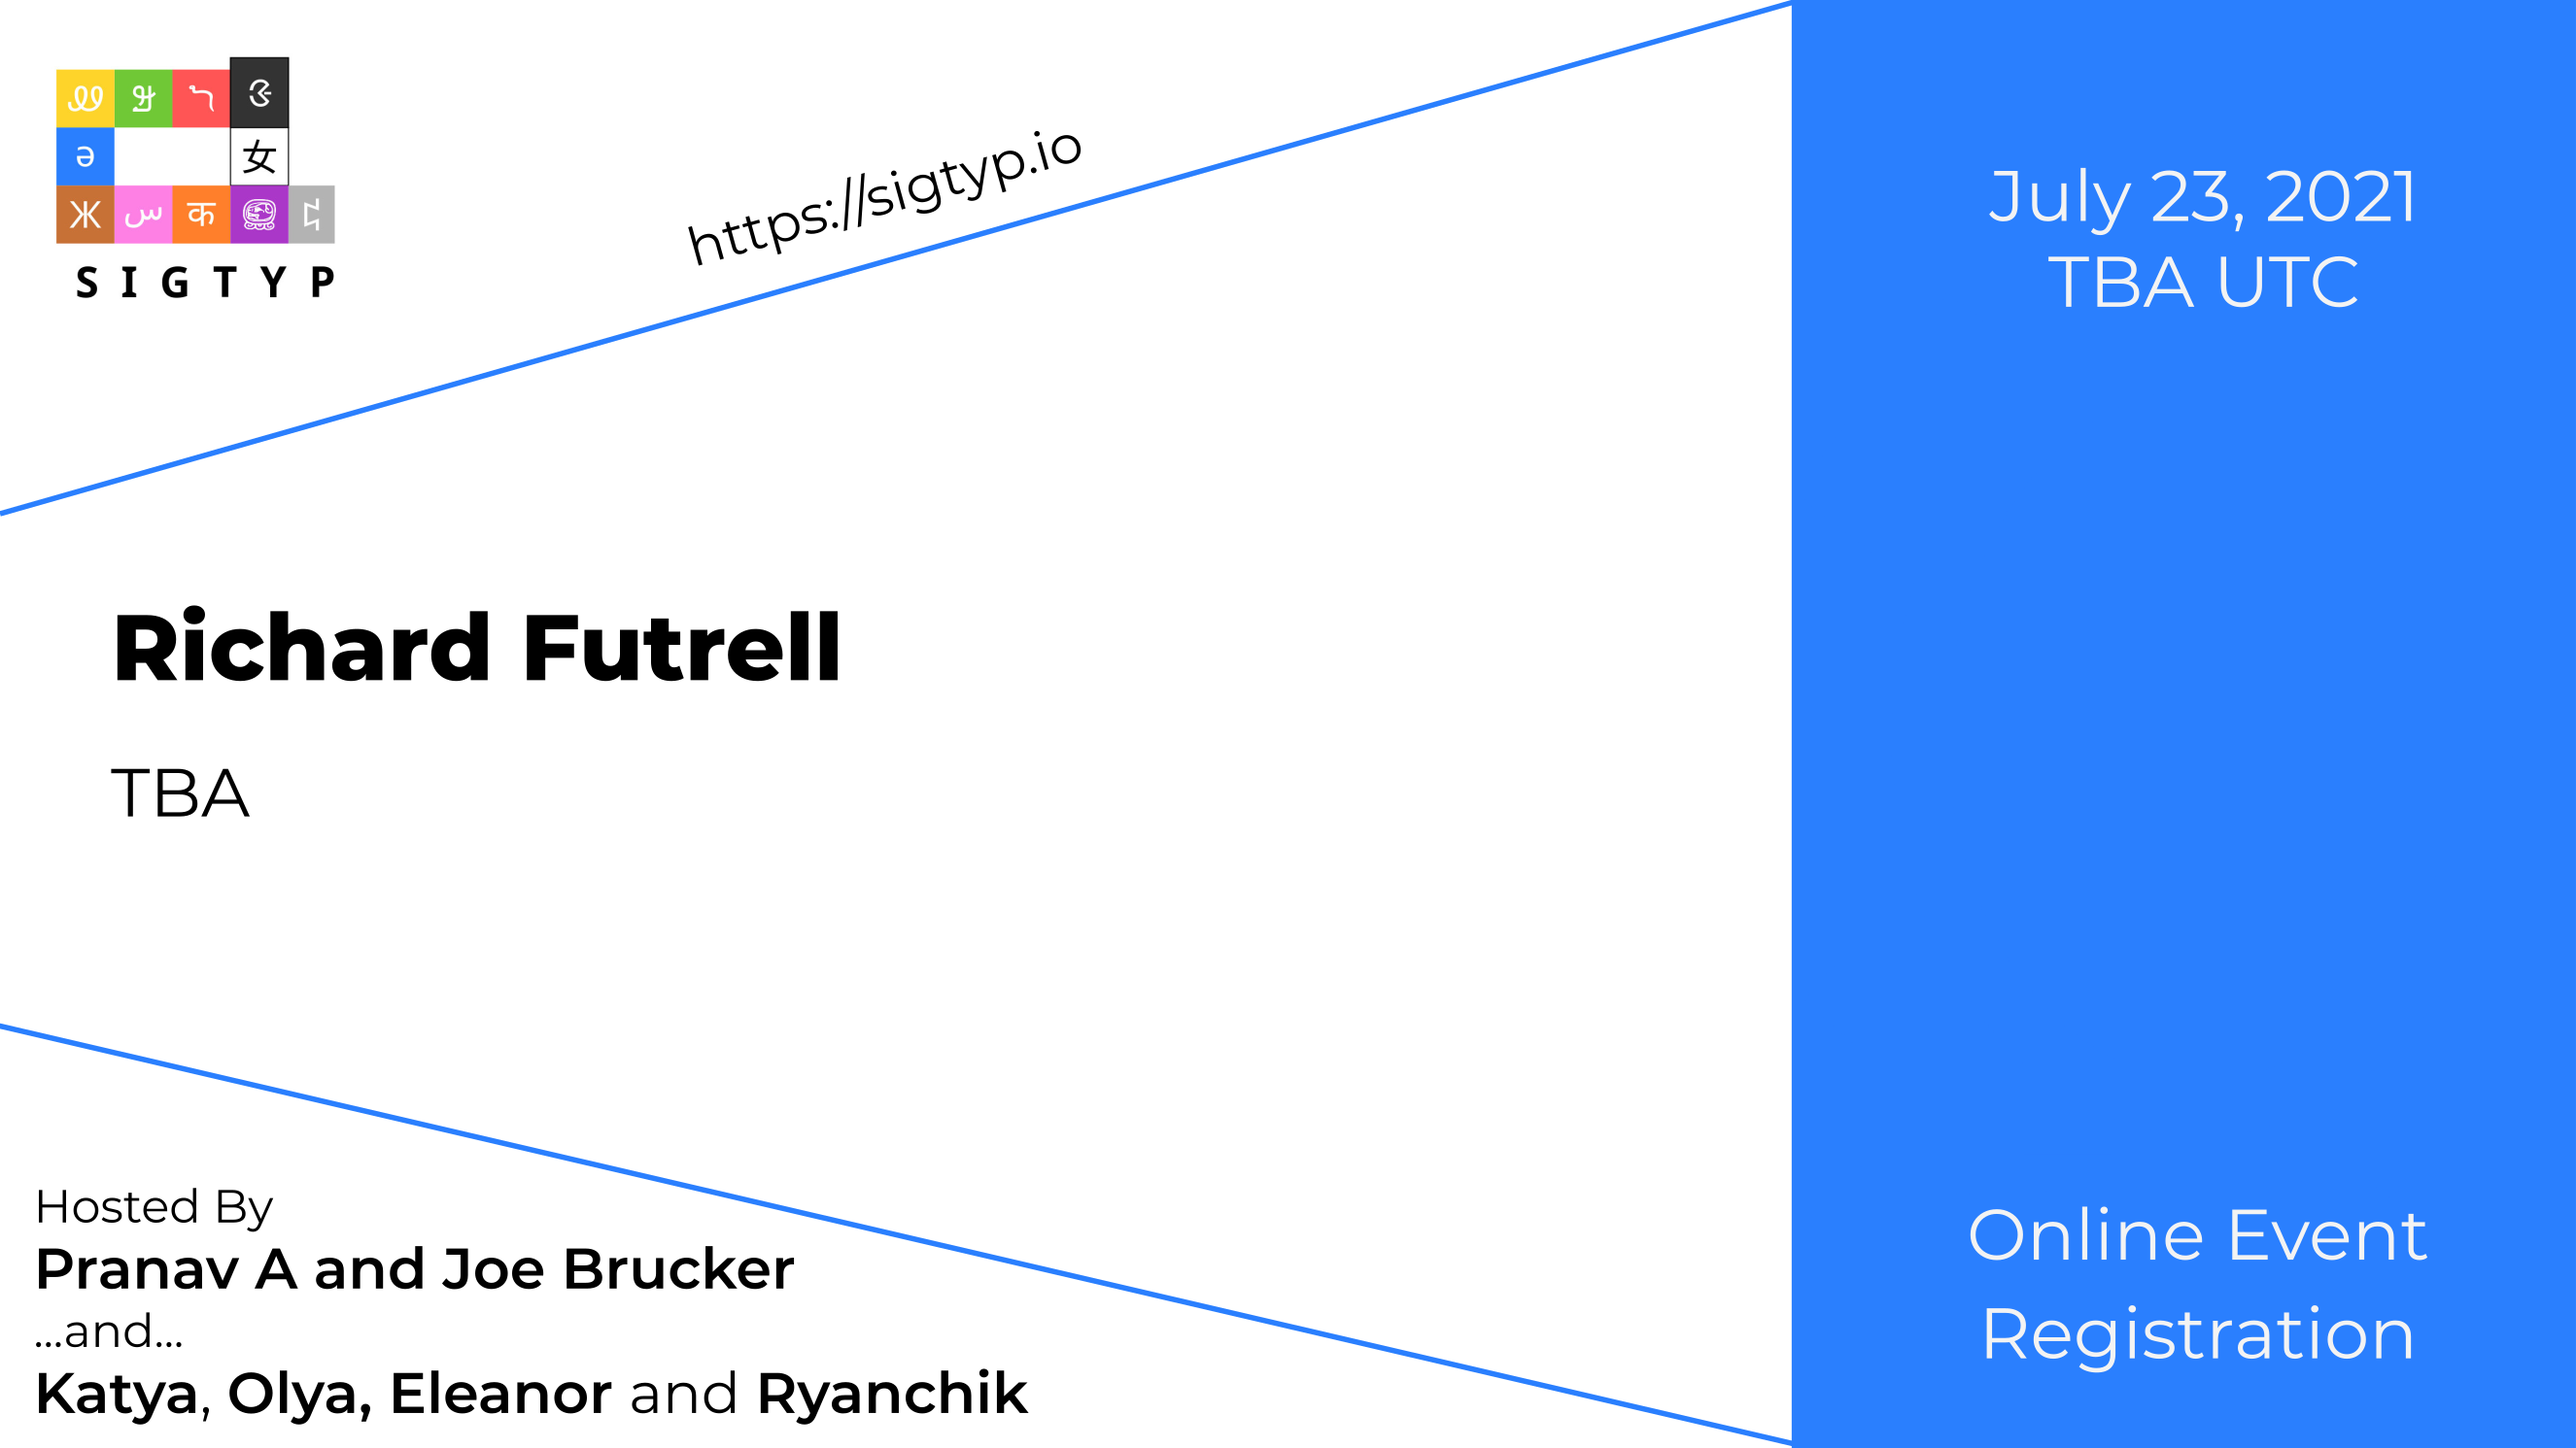
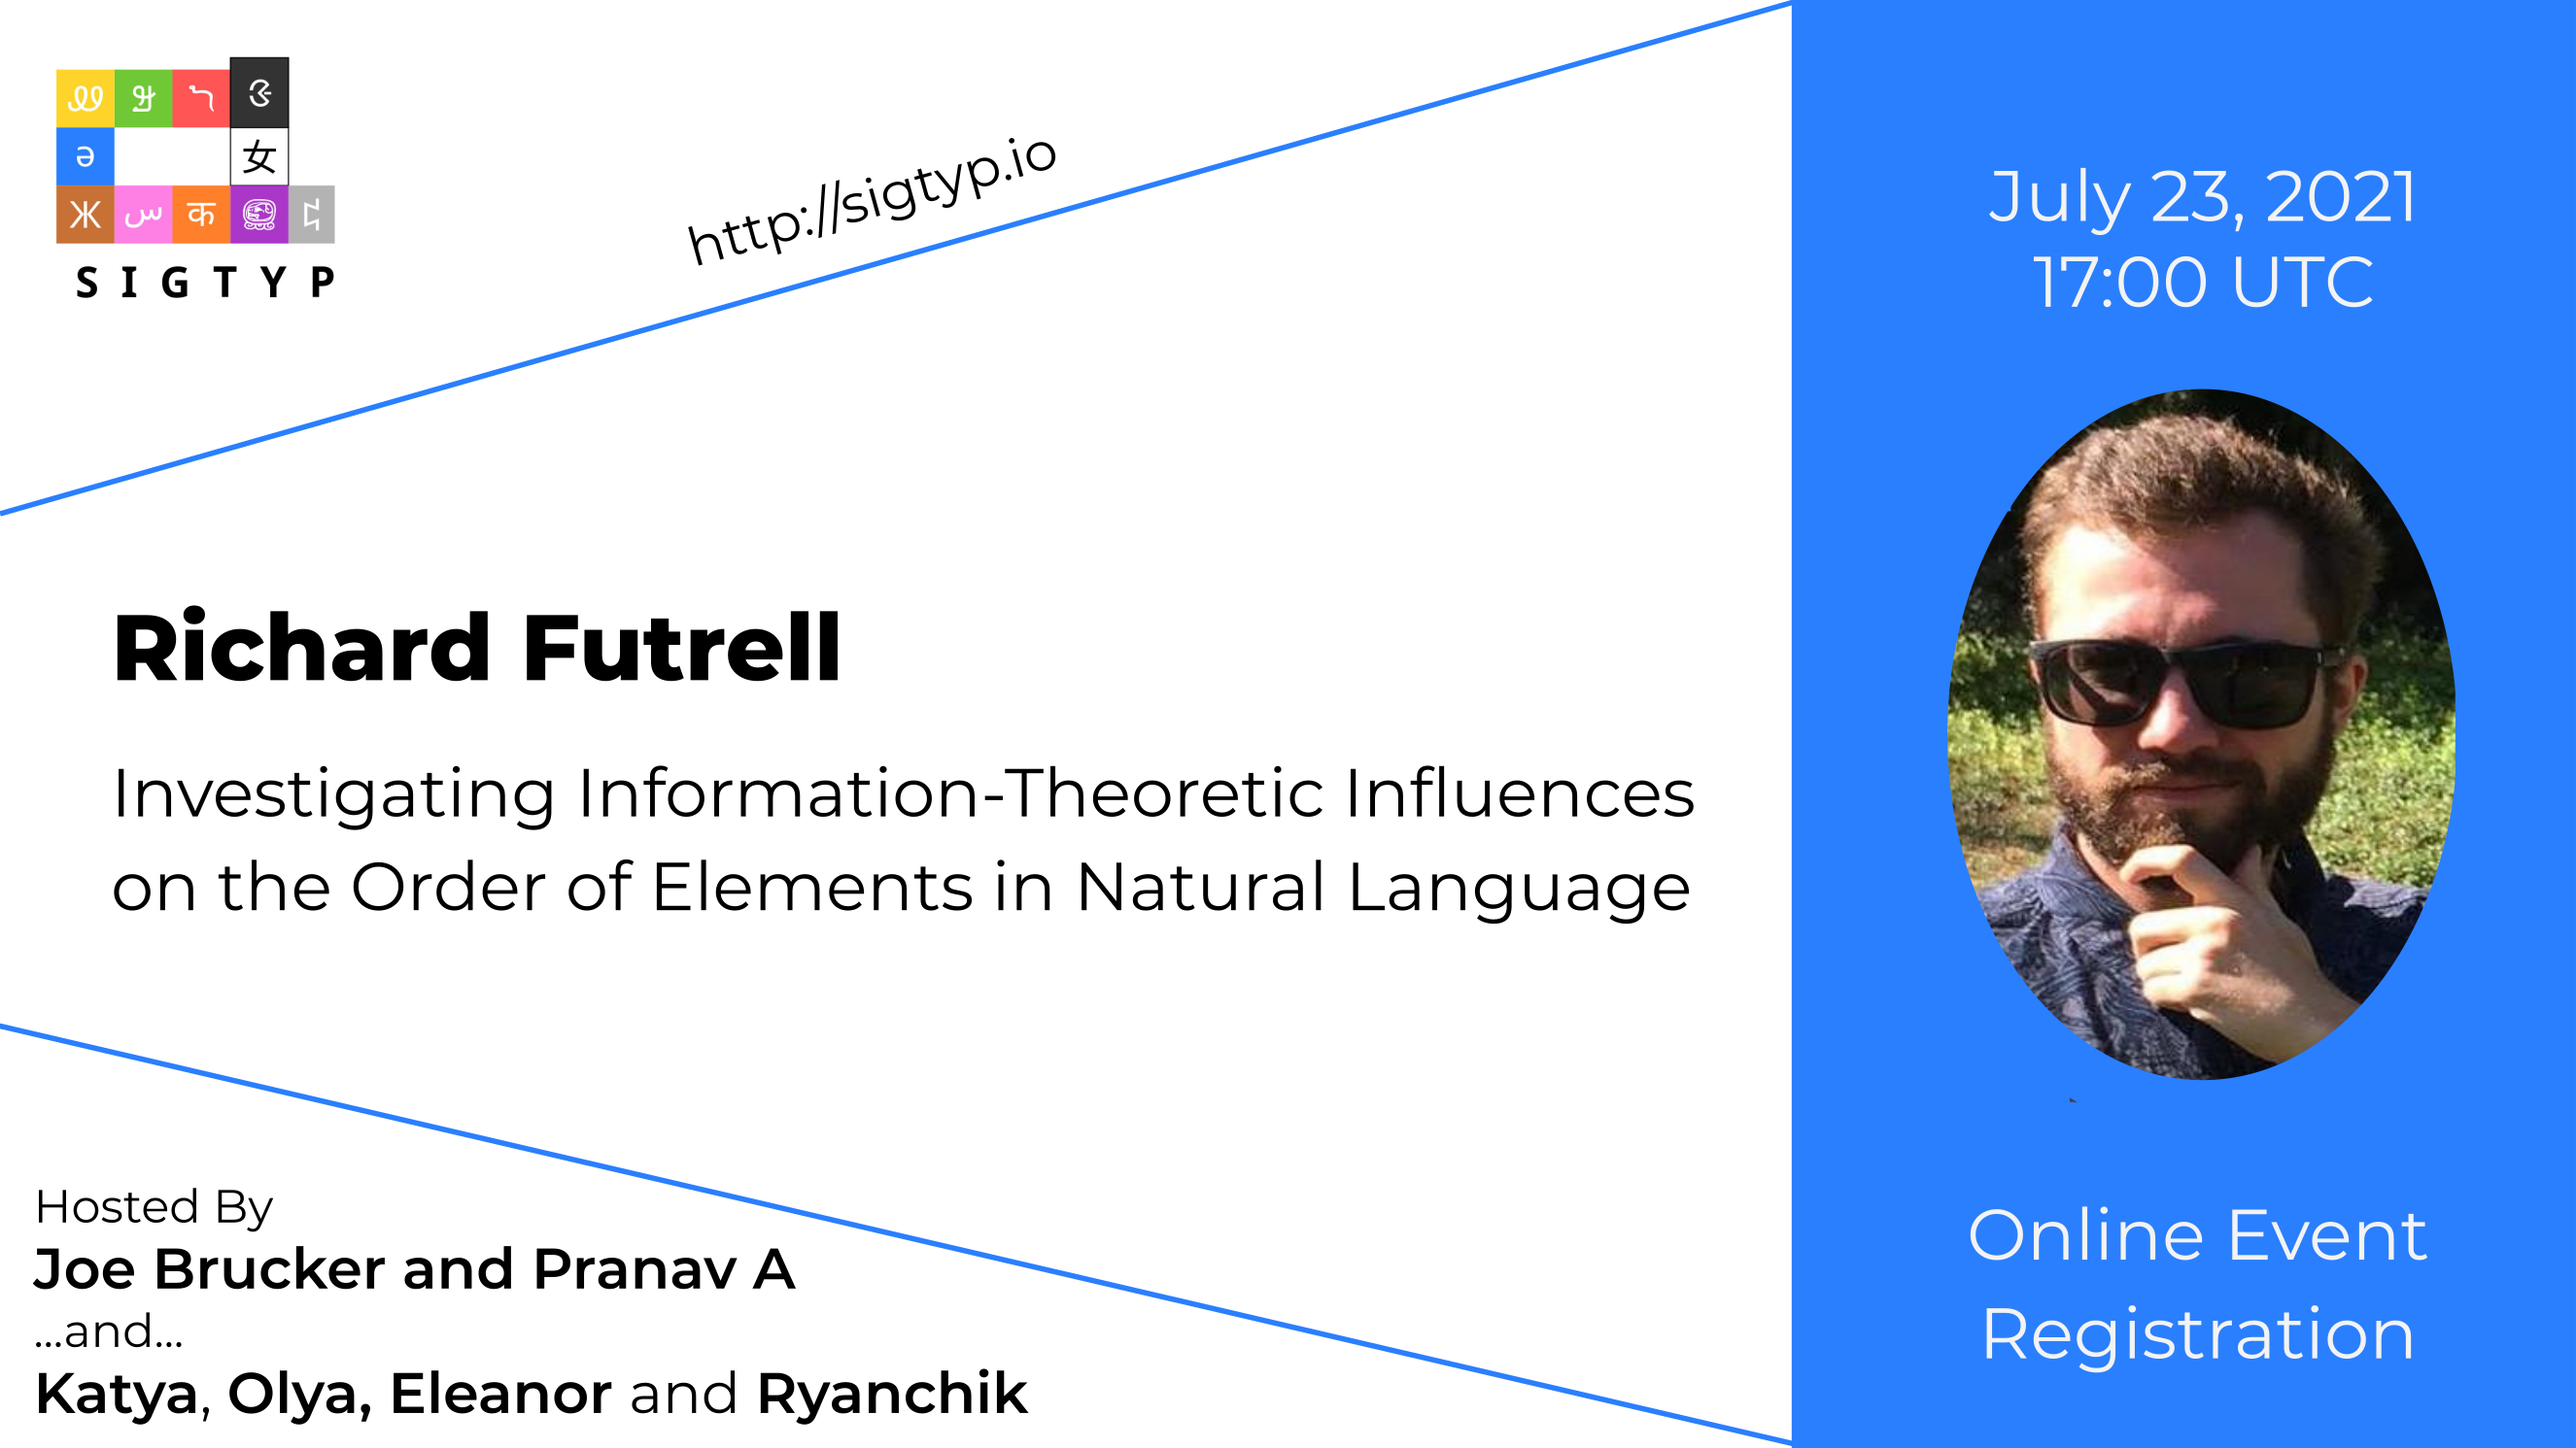
++richard

diff --git a/lectures.html b/lectures.html
@@ -236,17 +236,17 @@ img {vertical-align: middle;}
   </div-->
 
 
-<div class="mySlides">
+<!--div class="mySlides">
     <div class="numbertext"></div>
     <a href="https://www.eventbrite.co.uk/e/sigtyp-lecture-series-sabrina-j-mielke-tickets-156592866479" class="image full"><img src="lectures/speakers/sabrina-mielke.png" style="width:100%"></a>
     <div class="text1"><a href="https://www.eventbrite.co.uk/e/sigtyp-lecture-series-sabrina-j-mielke-tickets-156592866479">Fair Comparisons for Generative Language Models -- with a bit of Information Theory</a></div>
-  </div>
+  </div-->
 
 
 <div class="mySlides">
     <div class="numbertext"></div>
-    <a href="https://TBA" class="image full"><img src="lectures/speakers/richard_futrell.png" style="width:100%"></a>
-    <div class="text1"><a href="https://TBA">TBA</a></div>
+    <a href="https://www.eventbrite.co.uk/e/sigtyp-lecture-series-richard-futrell-tickets-161249853653" class="image full"><img src="lectures/speakers/richard_futrell.png" style="width:100%"></a>
+    <div class="text1"<a href="https://www.eventbrite.co.uk/e/sigtyp-lecture-series-richard-futrell-tickets-161249853653">Investigating Information-Theoretic Influences on the Order of Elements in Natural Language</a></div>
   </div>
 
 <div class="mySlides">
@@ -477,6 +477,7 @@ How can we fairly compare the performance of generative models on multiple langu
 <br/>
 Bio: <br/>
 Sabrina is a PhD student at the Johns Hopkins University and a part-time research intern at HuggingFace, researching open-vocabulary language models for segmentation and tokenization. She has published and co-organized workshops and shared tasks on these topics as well as on morphology and typological analysis in ACL, NAACL, EMNLP, LREC, and AAAI. You can find her reminisce for a time when formal language theory played a bigger role in NLP on Twitter at @sjmielke.</p>
+<iframe width="560" height="315" src="https://www.youtube.com/embed/ZNg-fJXYtow" title="YouTube video player" frameborder="0" allow="accelerometer; autoplay; clipboard-write; encrypted-media; gyroscope; picture-in-picture" allowfullscreen></iframe>
 <p  align="center"><a href="TBA"  class="button small">Slides</a>&nbsp;&nbsp;<a href="TBA"  class="button small">BiliBili</a>&nbsp;&nbsp;<a href="https://sigtyp.inf.ethz.ch/channel/lecture-mielke"  class="button small">RocketChat</a>&nbsp;&nbsp;<a href="https://sjmielke.com/"  class="button small">Website</a></p>
        </div>
       </div>

diff --git a/index.html b/index.html
@@ -223,8 +223,8 @@ img {vertical-align: middle;}
 					<h2 style="font-size:28px">Online Lecture Series</h2>
 				</header>
 <div class="container">
-				<a href="https://www.eventbrite.co.uk/e/sigtyp-lecture-series-sabrina-j-mielke-tickets-156592866479" class="image centered"><img src="lectures/speakers/sabrina-mielke.png" alt="SIGTYP2021" style="width:100%"></a><br/>
-					<p style="font-size:18px;text-align:left;">SIGTYP is starting a online lecture series. Our upcoming lecturer is Sabrina J Mielke who will speak on <i>Fair comparisons for generative language models—with a bit of Information Theory</i> The event will be held over Zoom on Jul 16th at 00:00 UTC (check your time zone <a href="https://everytimezone.com/?t=60c93f00,0">HERE</a>). <b><a href="https://www.eventbrite.co.uk/e/sigtyp-lecture-series-sabrina-j-mielke-tickets-156592866479">Sign up here.</a></b> </p>
+				<a href="https://www.eventbrite.co.uk/e/sigtyp-lecture-series-sabrina-j-mielke-tickets-156592866479" class="image centered"><img src="lectures/speakers/richard-futrell.png" alt="SIGTYP2021" style="width:100%"></a><br/>
+					<p style="font-size:18px;text-align:left;">SIGTYP is starting a online lecture series. Our upcoming lecturer is Richard Futrell who will speak on <i>Investigating Information-Theoretic Influences on the Order of Elements in Natural Language</i> The event will be held over Zoom on Jul 23rd at 17:00 UTC.</p>
 </div>				
 				<header>
 					<h2 style="font-size:28px">Resources</h2>
